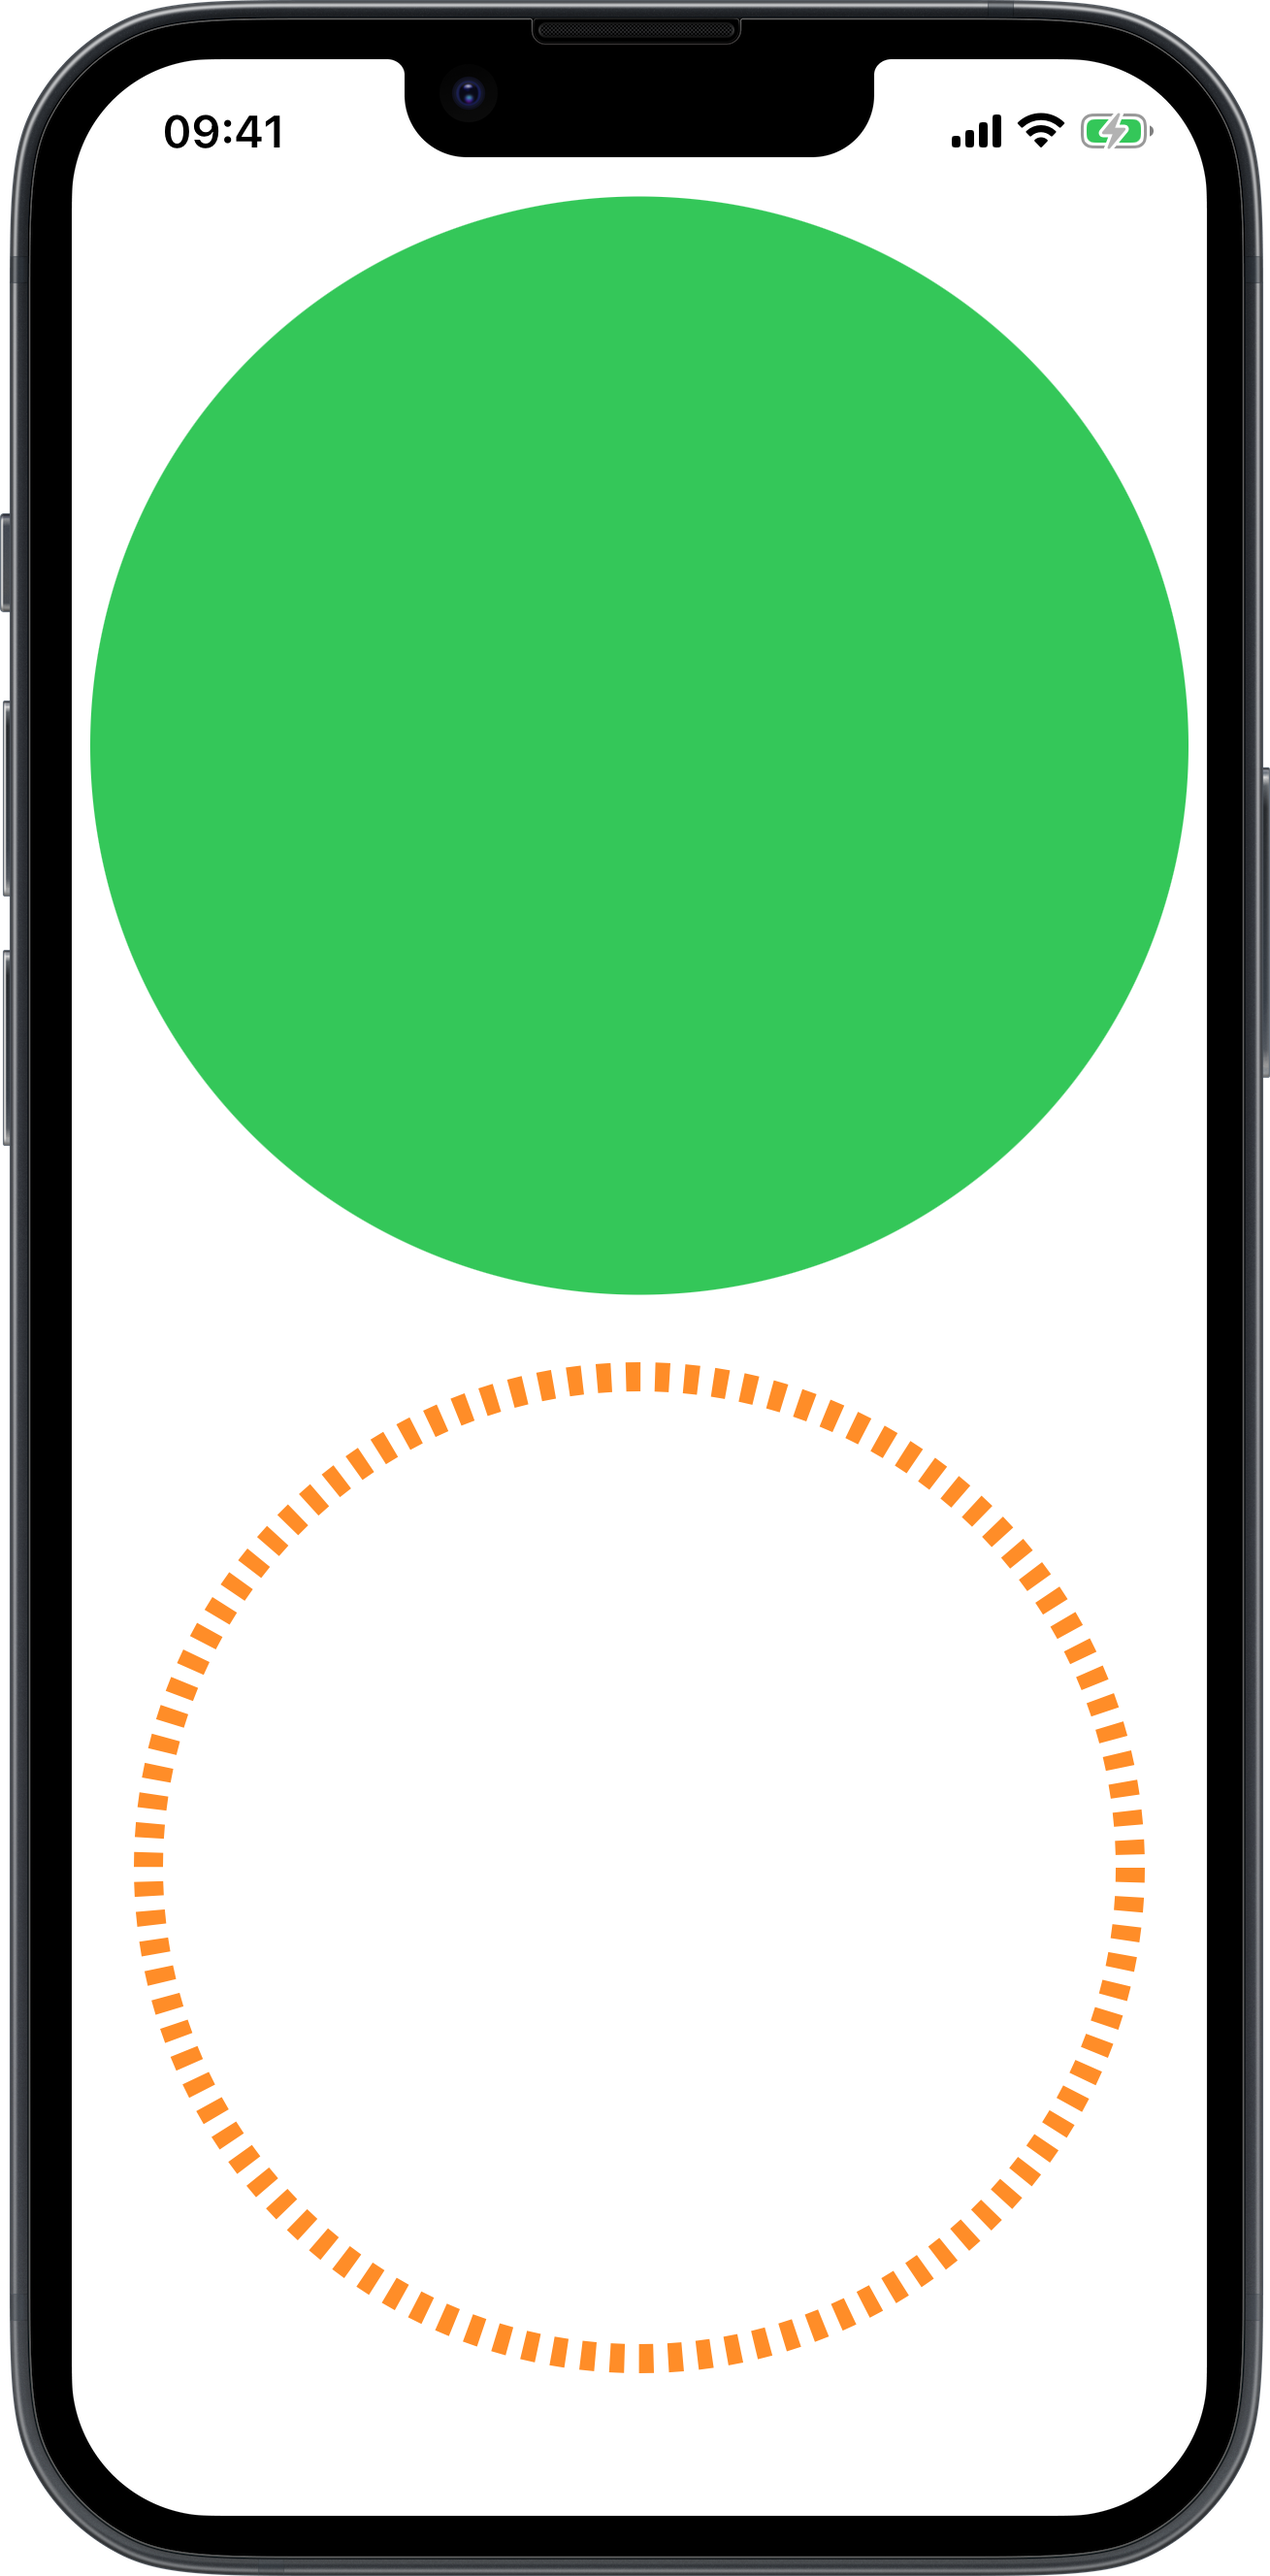
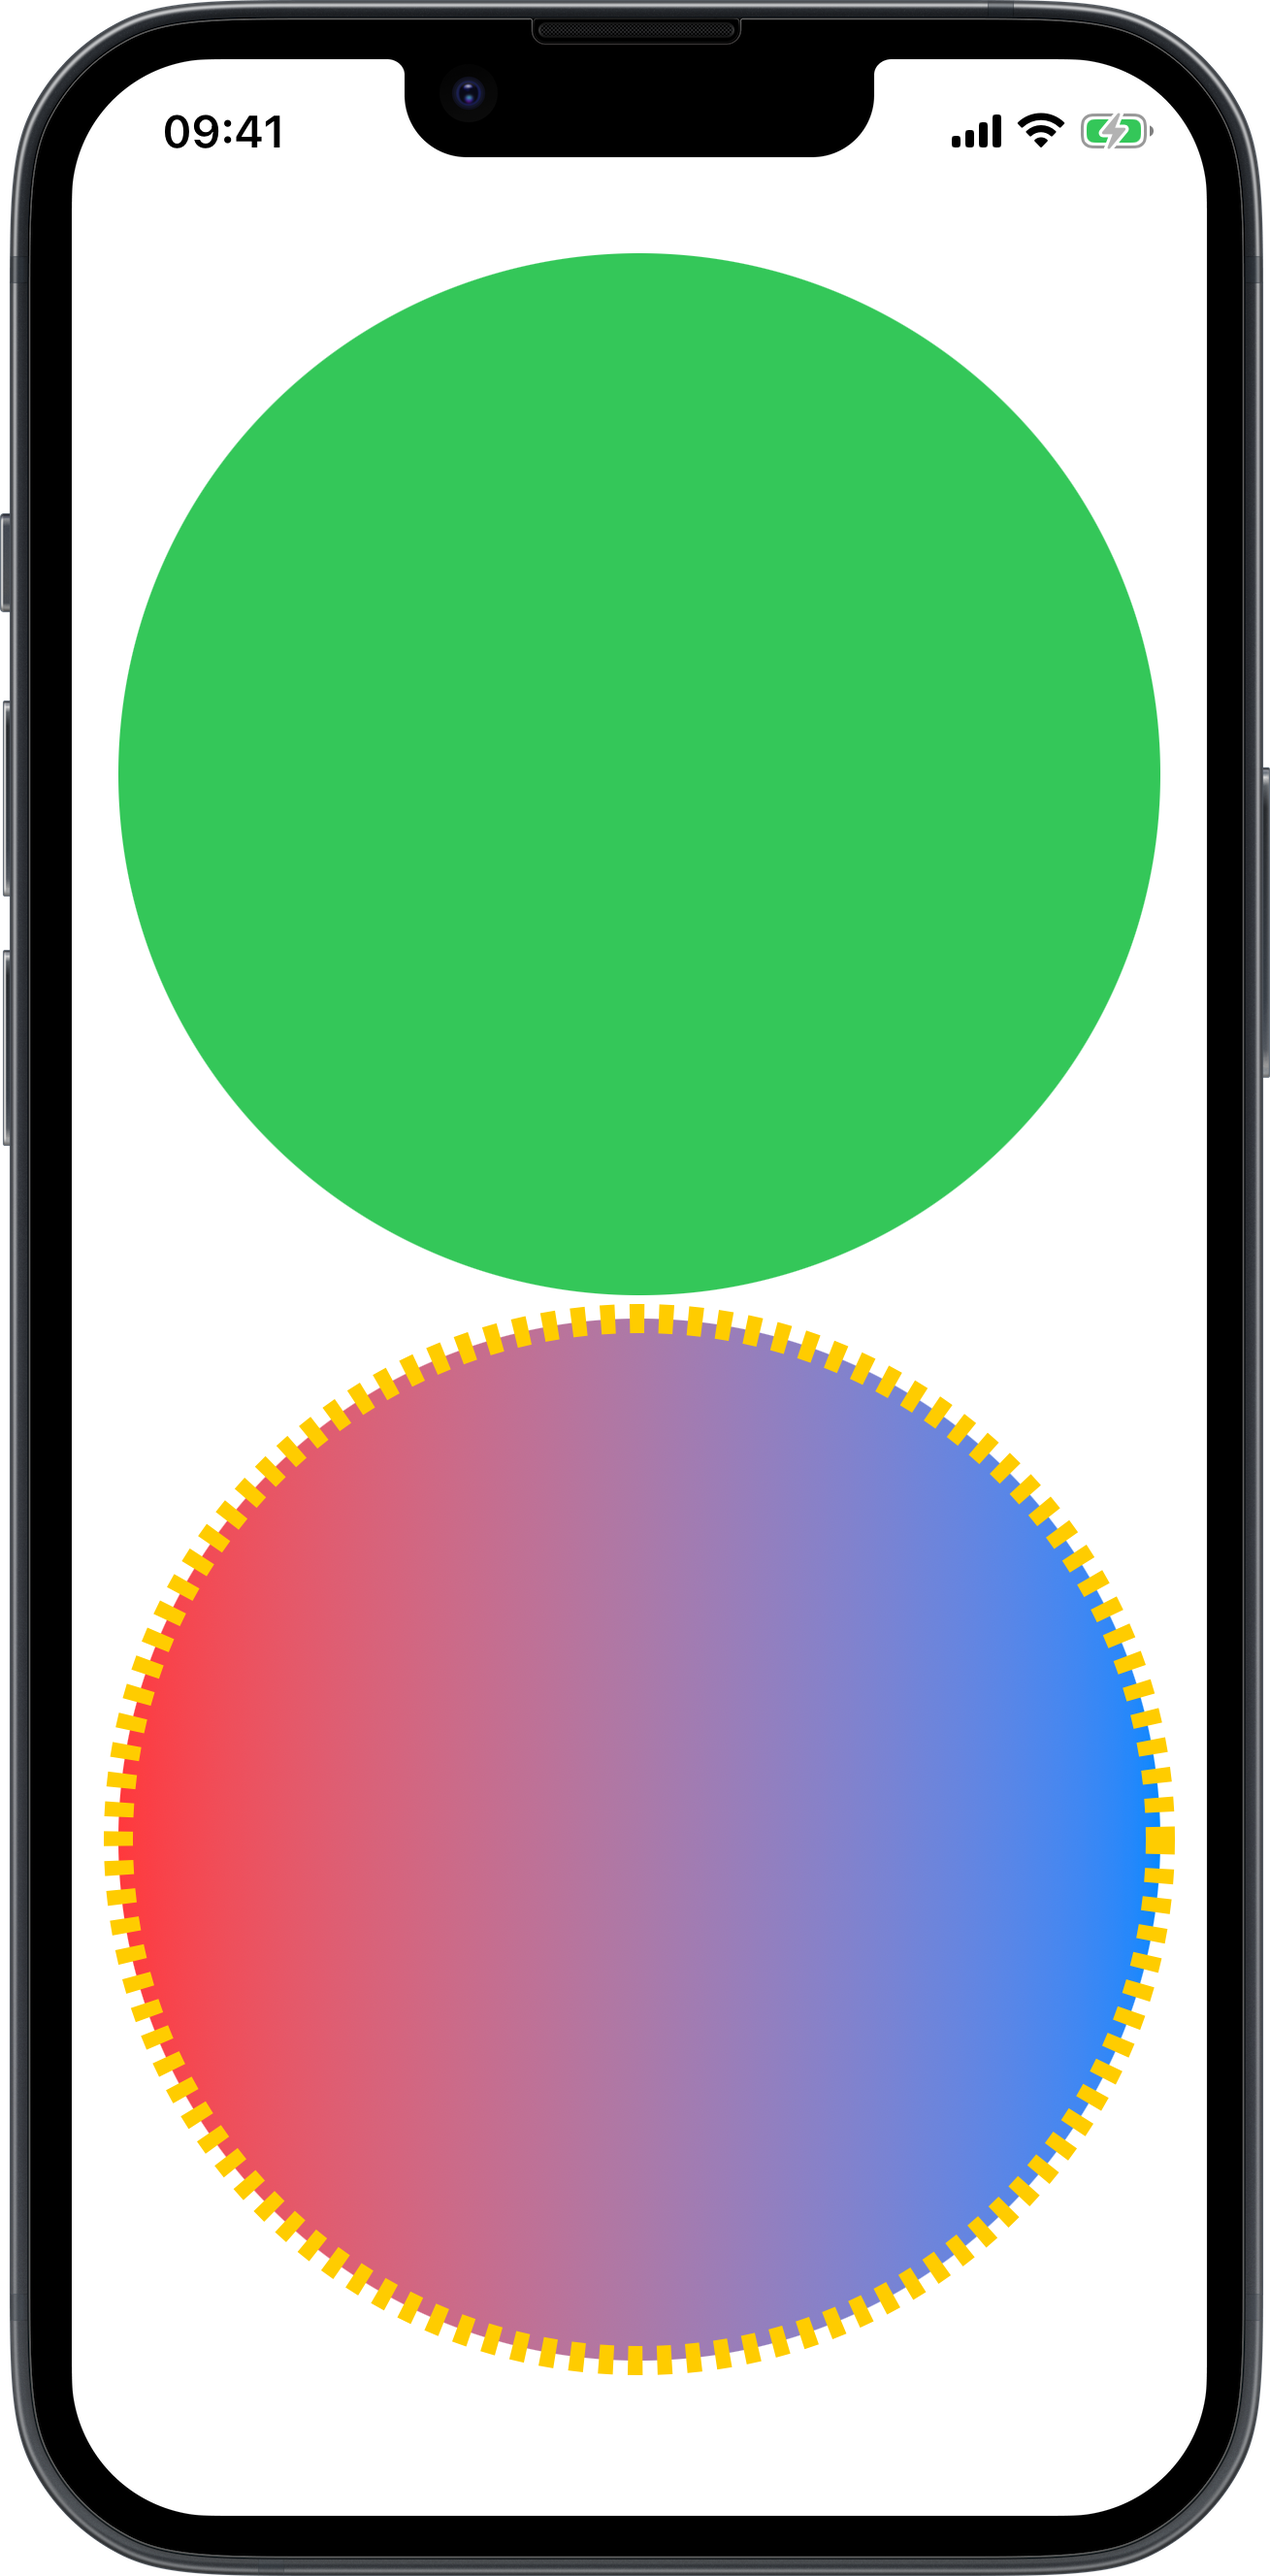
updated

diff --git a/Views/Other/circle.md b/Views/Other/circle.md
@@ -12,9 +12,12 @@ A circle shape aligned inside the frame of the view containing it.
 
 ```xml
 <body>
-    <vstack>
+    <vstack padding="">
         <circle foregroundColor="green"/>
-        <circle stroke="lineWidth:10; dash:5" foregroundColor="orange" padding="20"/>
+        <zstack>
+            <circle foregroundStyle="style:lineargradient;colors:[red,blue];startPoint:0.0,0.5;endPoint:1.0,0.5"/>
+            <circle stroke="lineWidth:10; dash:5" foregroundColor="yellow"/>
+        </zstack>
     </vstack>
 </body>
 ```

diff --git a/Views/Other/capsule.md b/Views/Other/capsule.md
@@ -15,7 +15,7 @@ A capsule shape aligned inside the frame of the view containing it.
     <vstack padding="">
         <capsule foregroundColor="blue"/>
         <capsule foregroundColor="red"/>
-        <capsule stroke="lineWidth:5;dash:10" foregroundColor="red" padding="20"/>
+        <capsule stroke="lineWidth:5;dash:10" foregroundColor="red"/>
     </vstack>
 </body>
 ```
